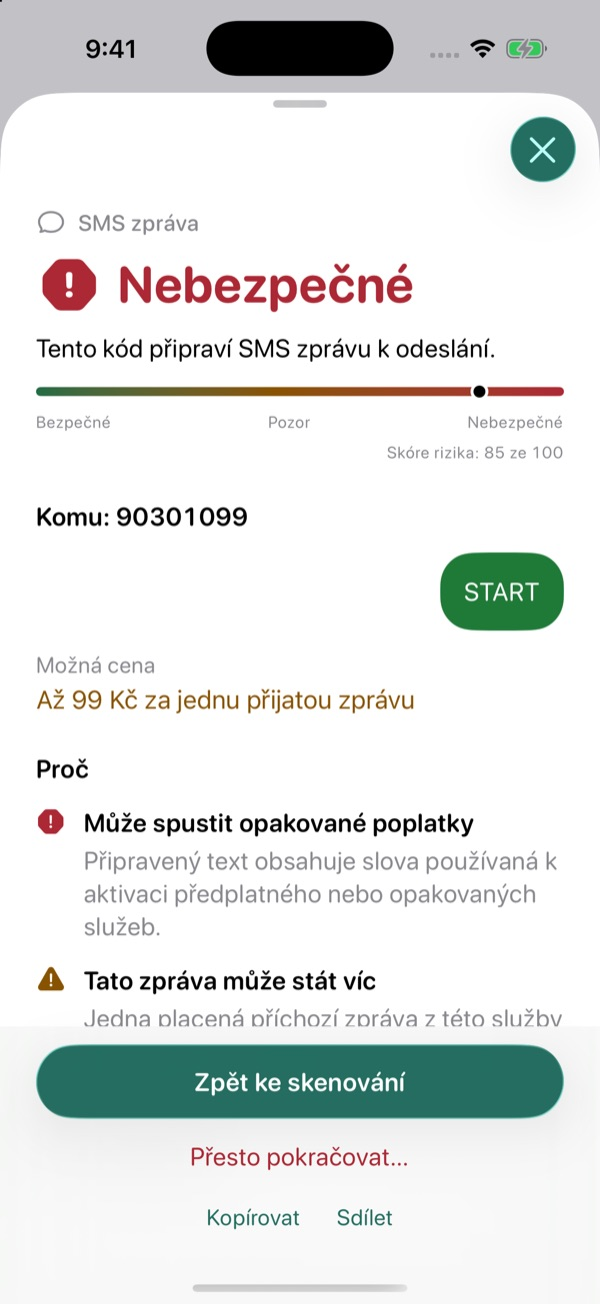
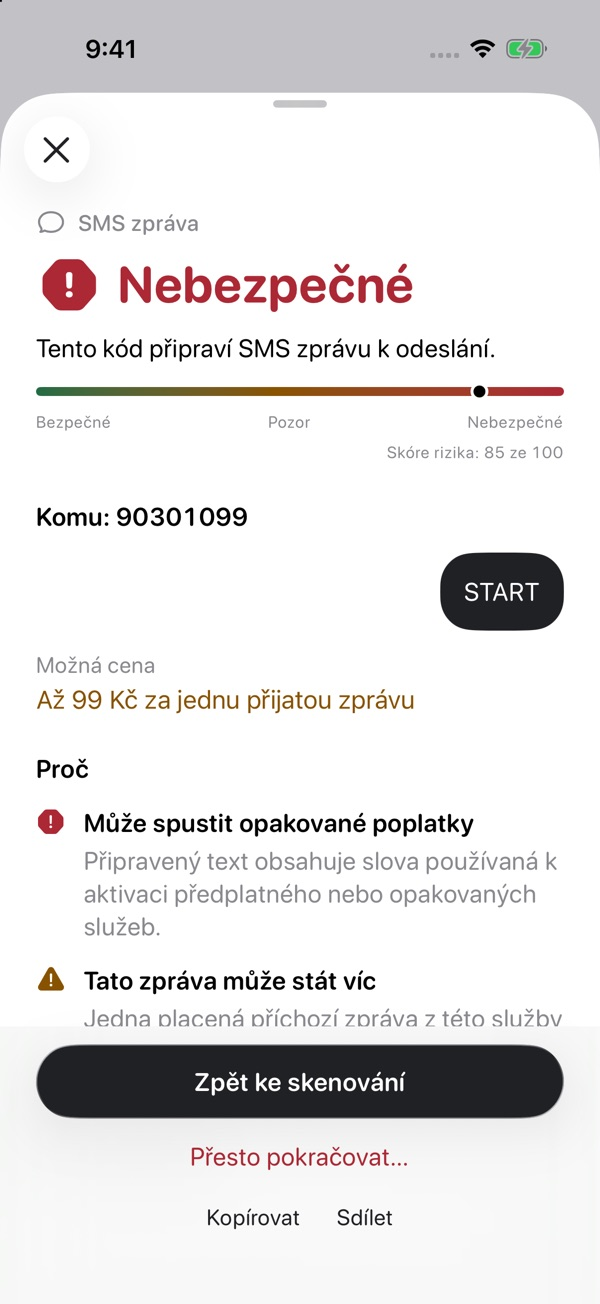
Show the new scanner and theme in screenshots

diff --git a/README.md b/README.md
@@ -9,7 +9,7 @@ Safe QR is a native iOS app in Czech and English, plus safeqr.cz: scan a code, r
 <table>
   <tr>
     <td><img src="docs/screenshots/scanner-en.jpg" width="200" alt="Camera locked onto a QR sticker on a parking machine; the label under the code reads Dangerous."></td>
-    <td><img src="docs/screenshots/verdict-en.jpg" width="200" alt="Dangerous: the website asks for sensitive details. Risk meter at 85, deep check in 13 seconds, and where the link leads."></td>
+    <td><img src="docs/screenshots/verdict-en.jpg" width="200" alt="Dangerous: the website asks for sensitive details. Risk meter at 75, deep check in 11 seconds, and where the link leads."></td>
     <td><img src="docs/screenshots/sandbox-en.jpg" width="200" alt="Screenshot of the fake parking payment page, taken in an isolated browser in AWS Frankfurt, with the reasons below."></td>
     <td><img src="docs/screenshots/sms-cs.jpg" width="200" alt="Czech premium SMS result: Dangerous, the message START in a text bubble and the price of up to 99 Kč per received message."></td>
   </tr>
